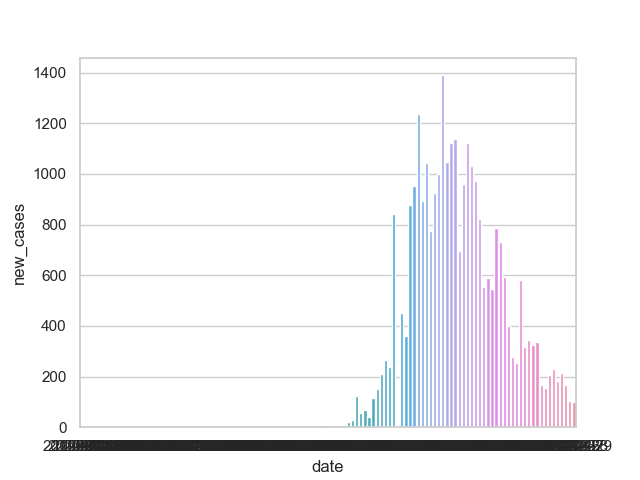
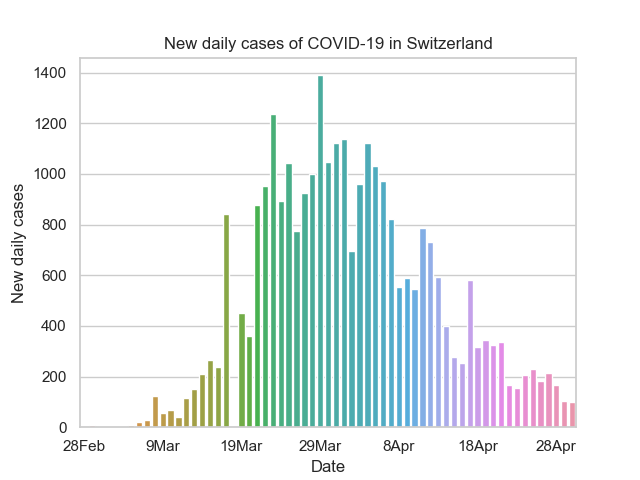
daily cases

diff --git a/scripts/che-new-cases.py b/scripts/che-new-cases.py
@@ -1,14 +1,30 @@
 import pandas as pd
 import seaborn as sns
+import matplotlib.pyplot as plt
+import numpy as np
+from  utils import drop_prepandemic_dates
 
 
 data = pd.read_csv('switzerland.csv')
 data = data[['date','new_cases']]
 
+data = drop_prepandemic_dates(data)
 
 sns.set(style="whitegrid")
 
-ax = sns.barplot(x='date', y='new_cases', data=data)
+fig, ax = plt.subplots()
 
-fig = ax.get_figure()
+xticks = np.arange(0,64,10)
+dates = []
+for index, row in data.iterrows():
+    print(index)
+    if (index-59) in xticks:
+        dates.append(row['date'])
+print(dates)
+
+plot = sns.barplot(x='date', y='new_cases', data=data, ax=ax)
+plot.set(xticks=xticks, xticklabels=['28Feb','9Mar','19Mar','29Mar','8Apr','18Apr','28Apr'],
+         xlabel='Date', ylabel='New daily cases', title='New daily cases of COVID-19 in Switzerland')
+
+plot = ax.get_figure()
 fig.savefig('trial.png')

diff --git a/scripts/utils.py b/scripts/utils.py
@@ -13,3 +13,11 @@ def load_ch_neighbours():
     return pd.read_csv('switzerland.csv'), pd.read_csv('france.csv'),\
            pd.read_csv('italy.csv'), pd.read_csv('germany.csv'),\
            pd.read_csv('austria.csv'), pd.read_csv('liechtenstein.csv')
+
+def drop_prepandemic_dates(data):
+    prepandemic_dates = []
+    for index, row in data.iterrows():
+        prepandemic_dates.append((index))
+        if row['new_cases'] > 0:
+            break
+    return data.drop(labels=prepandemic_dates)
